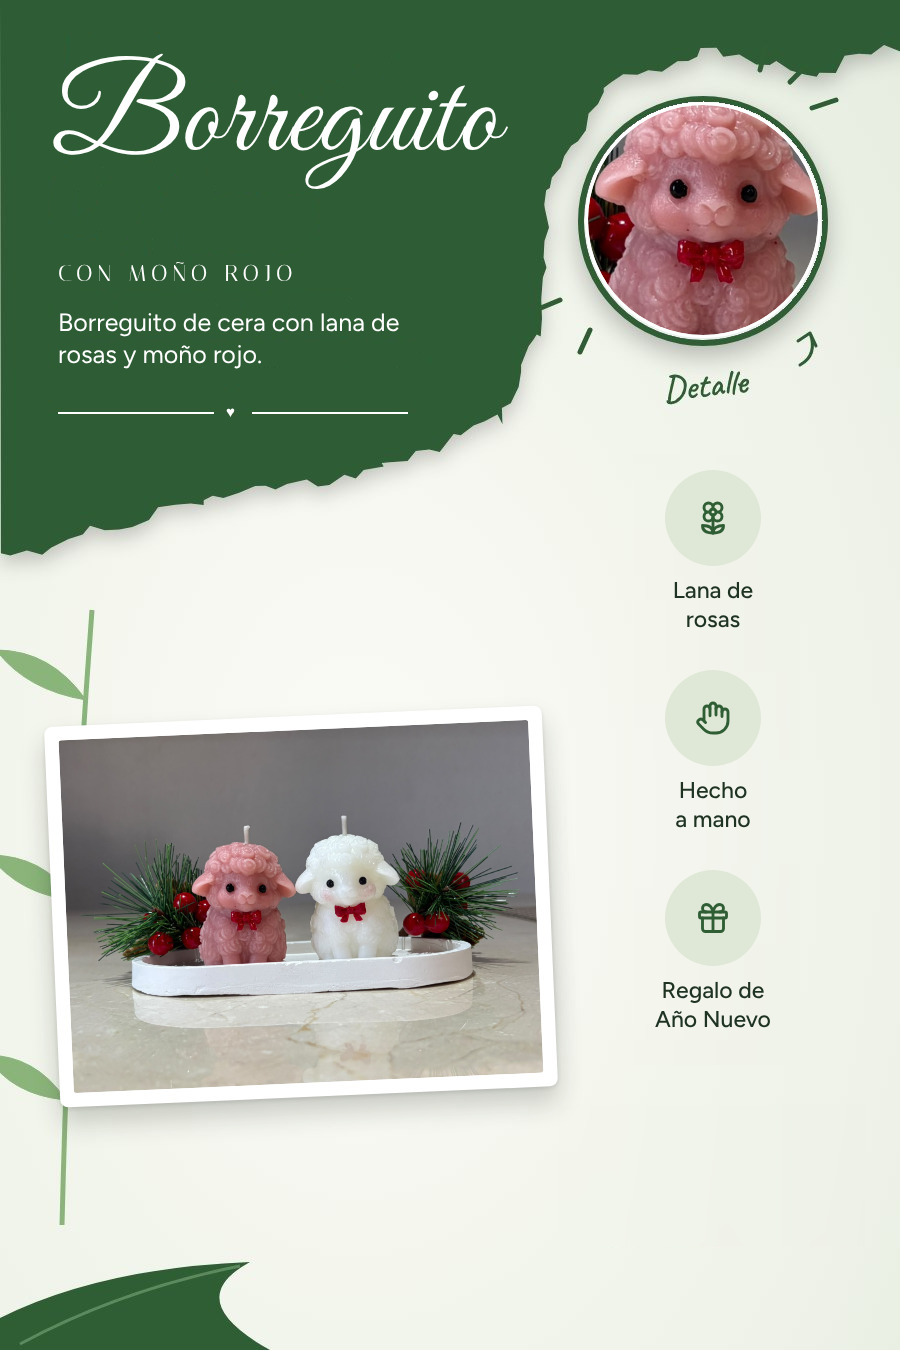
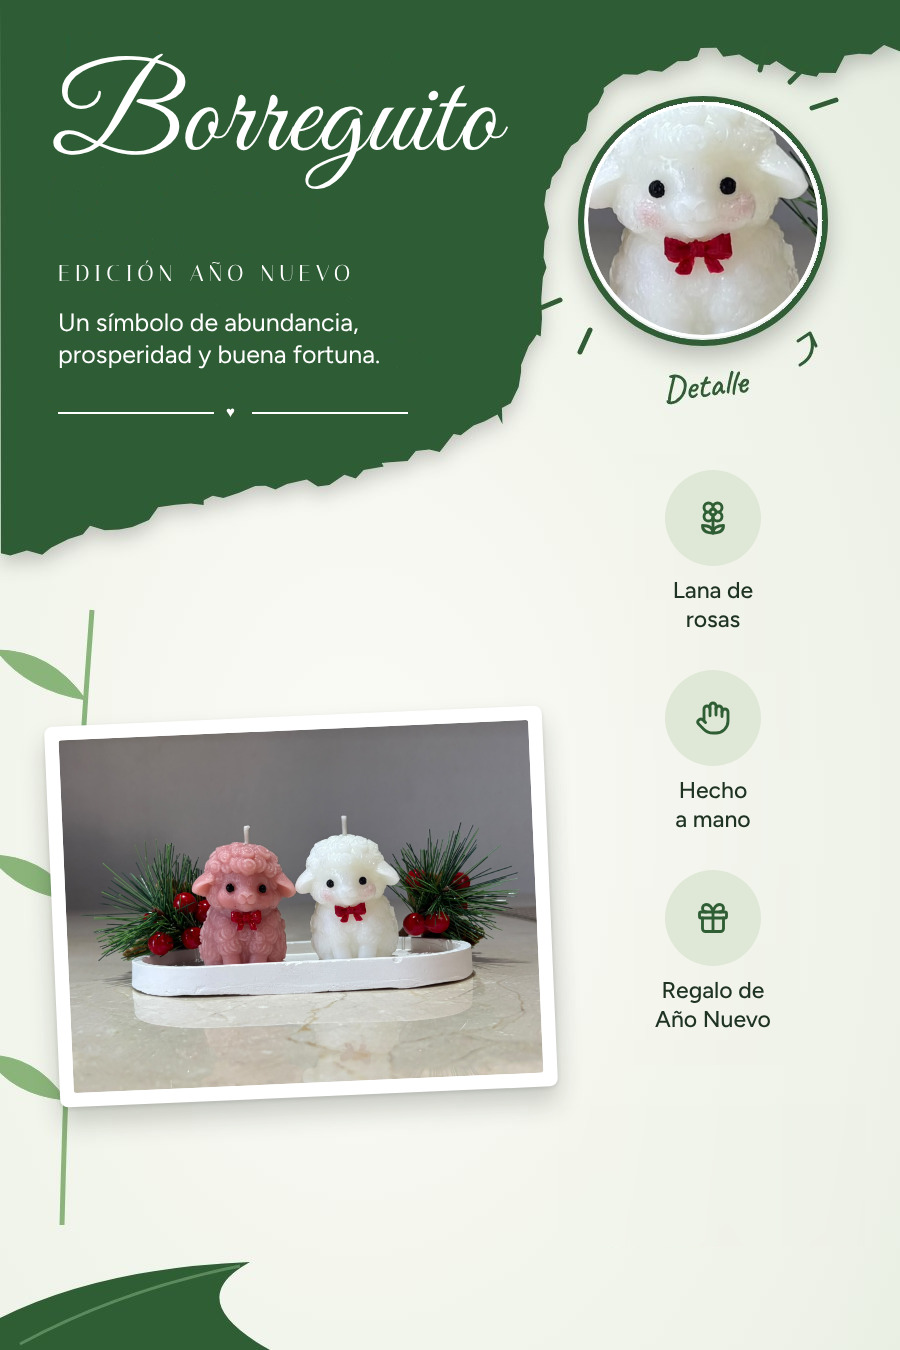
Borreguito de la Abundancia: nueva descripción y detalle con borreguito blanco
Claude-Session: https://claude.ai/code/session_013YesPR9PLcEkkLXok7v1zk

Changed region(s): [[0.6533, 0.0622, 0.9022, 0.2489], [0.0622, 0.1867, 0.4356, 0.28]]

diff --git a/velas.js b/velas.js
@@ -177,19 +177,19 @@ window.CATALOGO = {
     {
       id: "borreguito",
       categoria: "navidad", // navidad | aromaticas | floral | recuerdos
-      nombre: "Borreguito",
-      subtitulo: "Con moño rojo y lana de rosas",
+      nombre: "Borreguito de la Abundancia",
+      subtitulo: "Edición Año Nuevo",
       precio: 50,
-      corta: "Borreguito de cera con lana de rosas en relieve y moño rojo. Regalo ideal de Año Nuevo.",
-      descripcion: "Un borreguito tierno hecho en cera, con la lana formada por pequeñas rosas en relieve, ojitos negros y un moño rojo al cuello. Lo tenemos en rosa y en blanco, así que puedes regalar uno o armar la parejita. Es un detalle dulce para estrenar el año y se ve precioso como decoración, incluso sin encenderlo.",
+      corta: "Borreguito de cera, símbolo de abundancia y buena fortuna. Edición Año Nuevo.",
+      descripcion: "¡Atrae la abundancia y comienza el año con los mejores deseos! Nuestros tiernos borreguitos de cera están elaborados artesanalmente con delicados detalles de lana de rosas y un hermoso moño rojo. El borreguito es un símbolo de abundancia, prosperidad, buena fortuna y nuevos comienzos: un detalle especial para regalar a tus seres queridos y compartirles tus mejores deseos para este Año Nuevo. Hechos a mano con amor, cuidando cada detalle.",
       detalles: [
-        ["Colores", "Rosa o blanco (tú eliges)"],
-        ["Detalle", "Moño rojo y ojitos negros"],
-        ["Acabado", "Lana de rosas en relieve, hecho a mano"],
-        ["Venta", "Precio por pieza"],
-        ["Temporada", "Regalo de Año Nuevo"]
+        ["Colores", "Disponibles en diferentes colores"],
+        ["Detalle", "Lana de rosas y moño rojo"],
+        ["Acabado", "Hecho a mano con amor"],
+        ["Venta", "$50 MXN por pieza"],
+        ["Temporada", "Edición Año Nuevo"]
       ],
-      ideal: "Regalo de Año Nuevo, intercambio, detalle para baby shower o decoración de buró.",
+      ideal: "Regalos de Año Nuevo, detalles para familiares, amigos y compañeros de trabajo, recuerditos para recibir el año o decorar tu hogar con un toque de ternura.",
       portada: "img/borreguito-portada.svg",
       fotos: [
         { src: "img/borreguito-ficha.jpg", alt: "Ficha de la vela Borreguito" },

diff --git a/inicio.html b/inicio.html
@@ -140,7 +140,7 @@ footer{color:var(--muted);font-size:13px;text-align:center;padding-bottom:calc(2
 </div>
 <div class="toast" id="toast" role="status"></div>
 
-<script src="velas.js?v=20261119a"></script>
+<script src="velas.js?v=20261119b"></script>
 <script>
 const C = window.CATALOGO, $ = id => document.getElementById(id);
 const money = n => "$" + Number(n).toLocaleString("es-MX");
